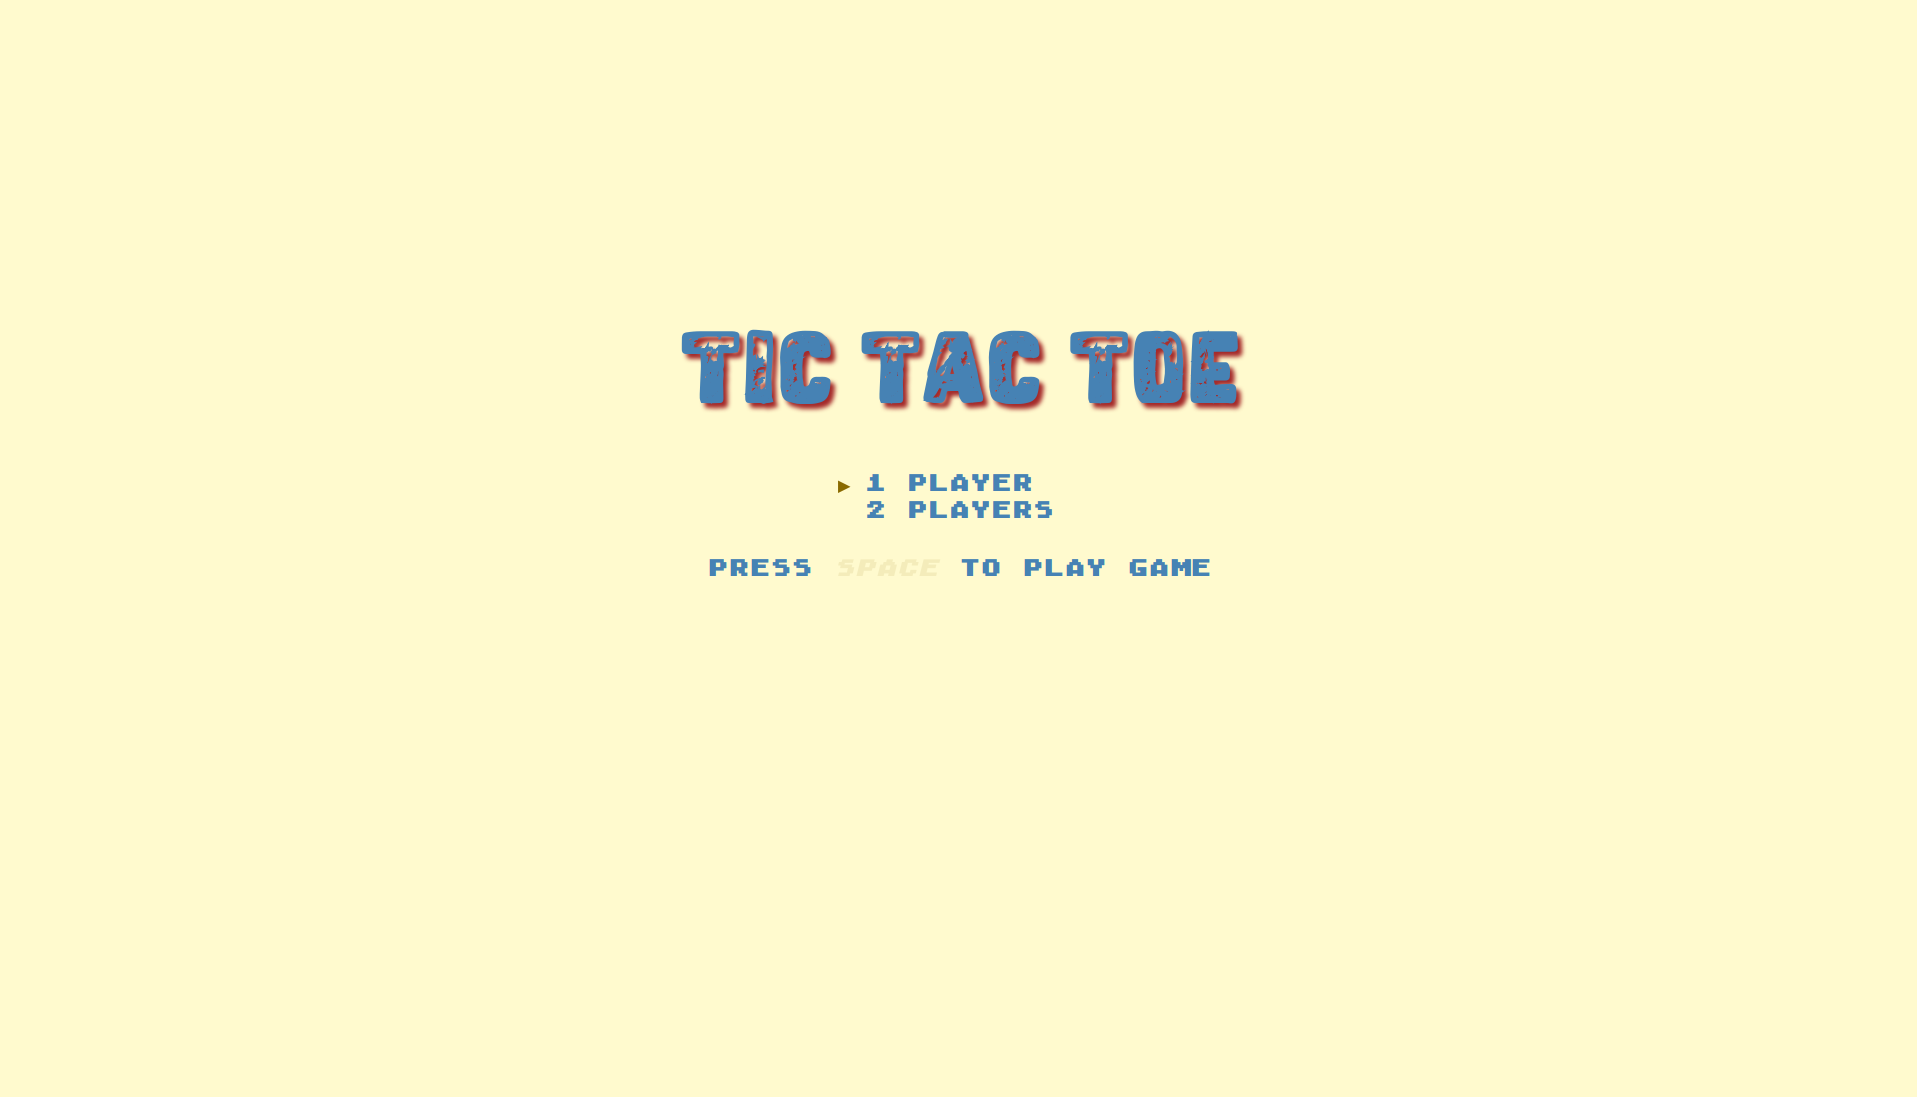
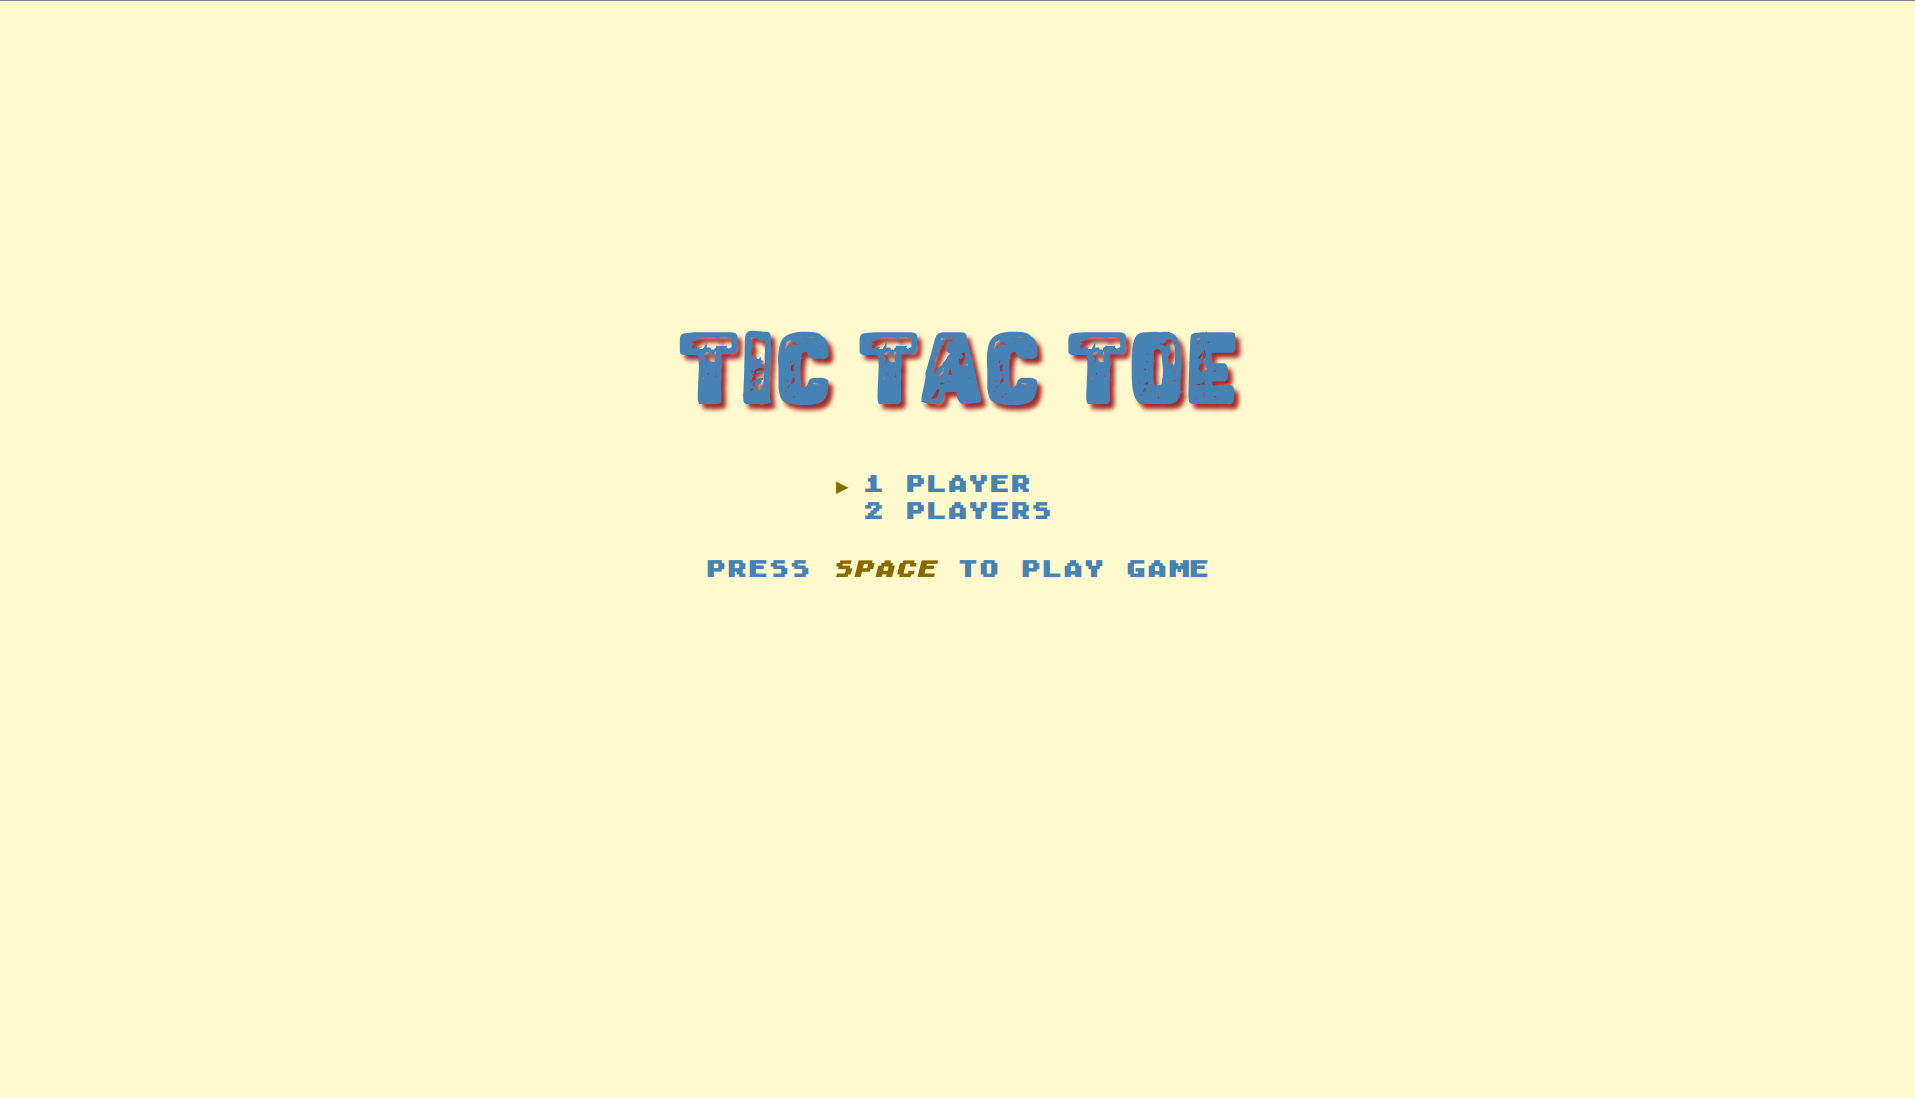
Update screenshot

Changed region(s): [[0.3389, 0.2789, 0.647, 0.3719], [0.3697, 0.4959, 0.647, 0.5269], [0.4313, 0.4339, 0.5546, 0.4649]]

diff --git a/style.css b/style.css
@@ -231,7 +231,7 @@ button {
         opacity: 1;
     }
     50% {
-        opacity: 0;
+        opacity: 1;
     }
     100% {
         opacity: 1;
